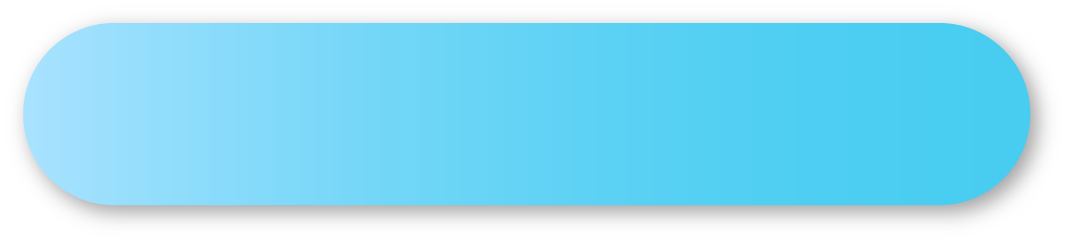
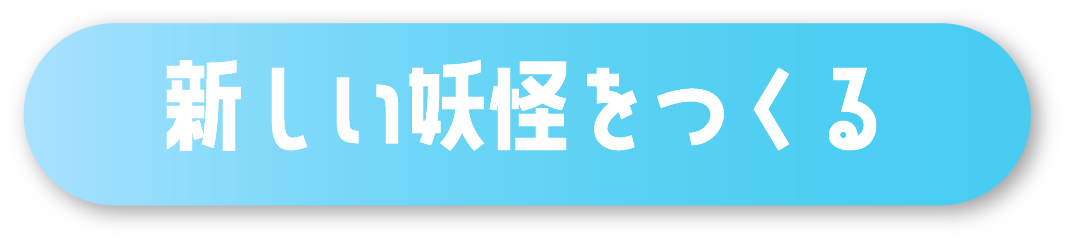
fix button design

diff --git a/web/src/app/monsters/page.tsx b/web/src/app/monsters/page.tsx
@@ -40,7 +40,11 @@ function MedalGrid({
             onClick={() => monster && router.push(`/monsters/${monster.id}`)}
           >
             {/* eslint-disable-next-line @next/next/no-img-element */}
-            <img src={src} alt={monster?.name ?? ""} style={{ width: "100%", aspectRatio: "1" }} />
+            <img
+              src={src}
+              alt={monster?.name ?? ""}
+              style={{ width: "100%", aspectRatio: "1" }}
+            />
           </div>
         );
       })}
@@ -157,12 +161,10 @@ export default function MonstersPage() {
         >
           <div style={{ position: "relative" }}>
             {/* eslint-disable-next-line @next/next/no-img-element */}
-            <img src="/button.png" alt="" style={{ width: "100%", display: "block" }} />
-            {/* eslint-disable-next-line @next/next/no-img-element */}
             <img
-              src="/button_text.png"
-              alt="トップへ"
-              style={{ position: "absolute", inset: 0, width: "100%", height: "100%" }}
+              src="/button.png"
+              alt=""
+              style={{ width: "100%", display: "block" }}
             />
           </div>
         </button>
